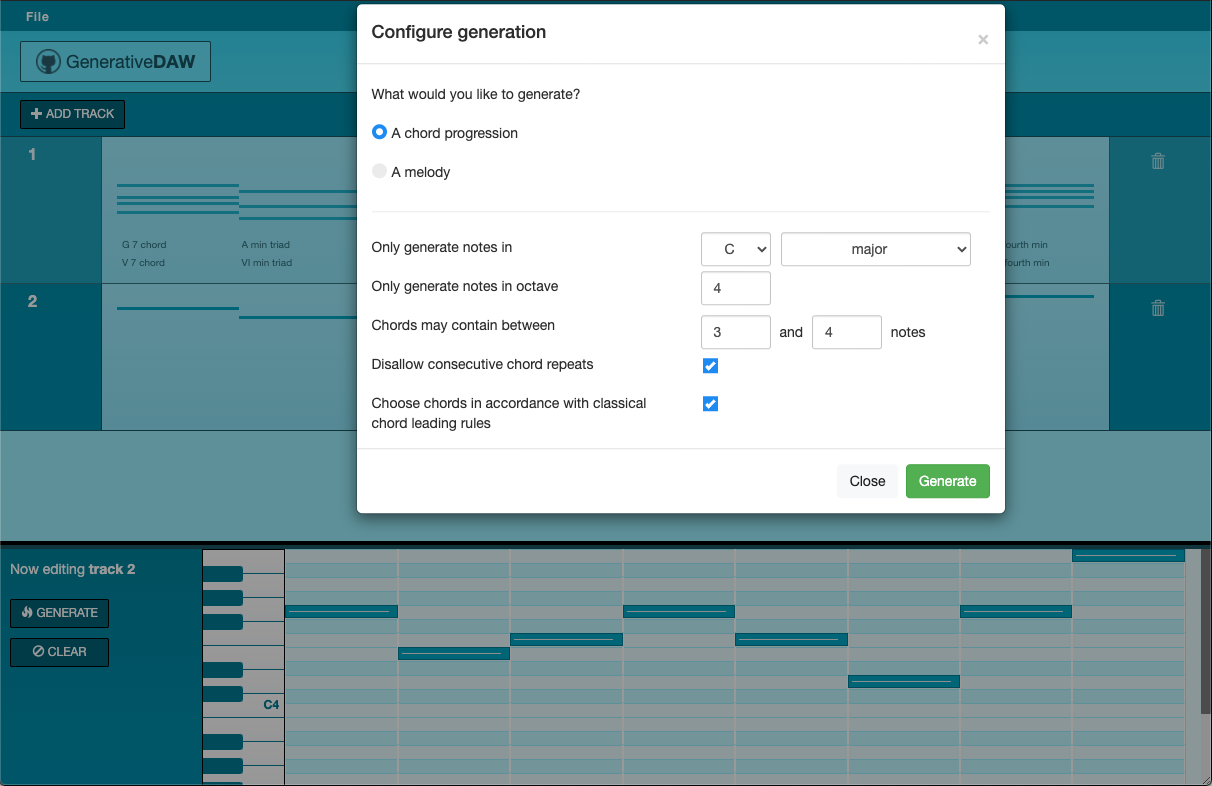
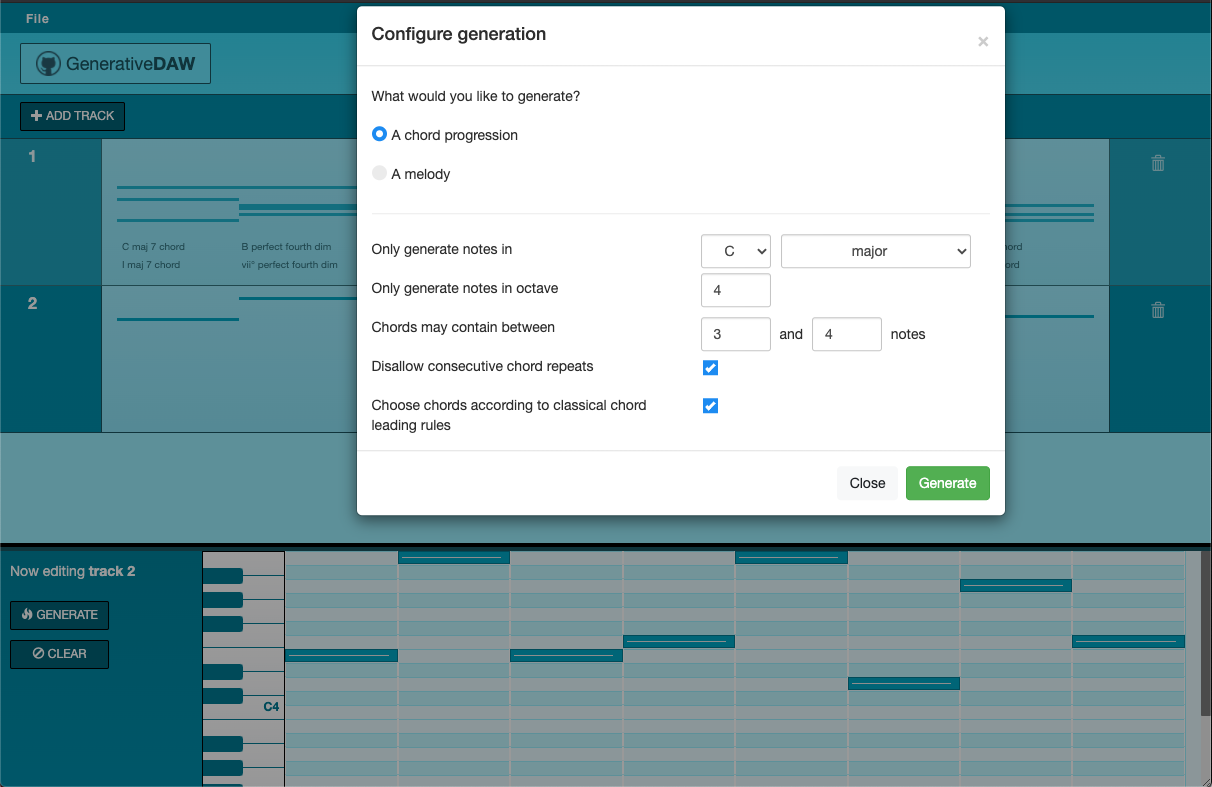
commit

diff --git a/ClientApp/src/app/piano-roll.component.html b/ClientApp/src/app/piano-roll.component.html
@@ -41,7 +41,7 @@
                                 </label>
 
                                 <label class='form-label' style='display:inline-block;margin-right:15px;' *ngIf="generationType == 'chords'">
-                                    Choose chords in accordance with classical chord leading rules
+                                    Choose chords according to classical chord leading rules
                                     <!-- <span class='glyphicon glyphicon-question-sign help-icon' id='help-chord-leading'></span> -->
                                 </label>
 

diff --git a/ServerApp/generation_tools.py b/ServerApp/generation_tools.py
@@ -304,9 +304,9 @@ def determine_chord_roman_name(chord_name, key, scale, chord_object):
         quality = chord_object.quality
         roman_numeral = constants['roman_numerals_upper'][degree - 1] + modifier
 
-        is_major = 'major' or 'maj' in pieces
+        is_major = 'major' in pieces or 'maj' in pieces
         is_incomplete_dominant_in_major = 'maj' in scale_code and ('min' not in pieces and ('dominant-seventh' in pieces or '7' in pieces))
-
+        
         if is_major or is_incomplete_dominant_in_major:
             return roman_numeral + ' ' + ' '.join(pieces[1:])
         if quality == 'augmented':
